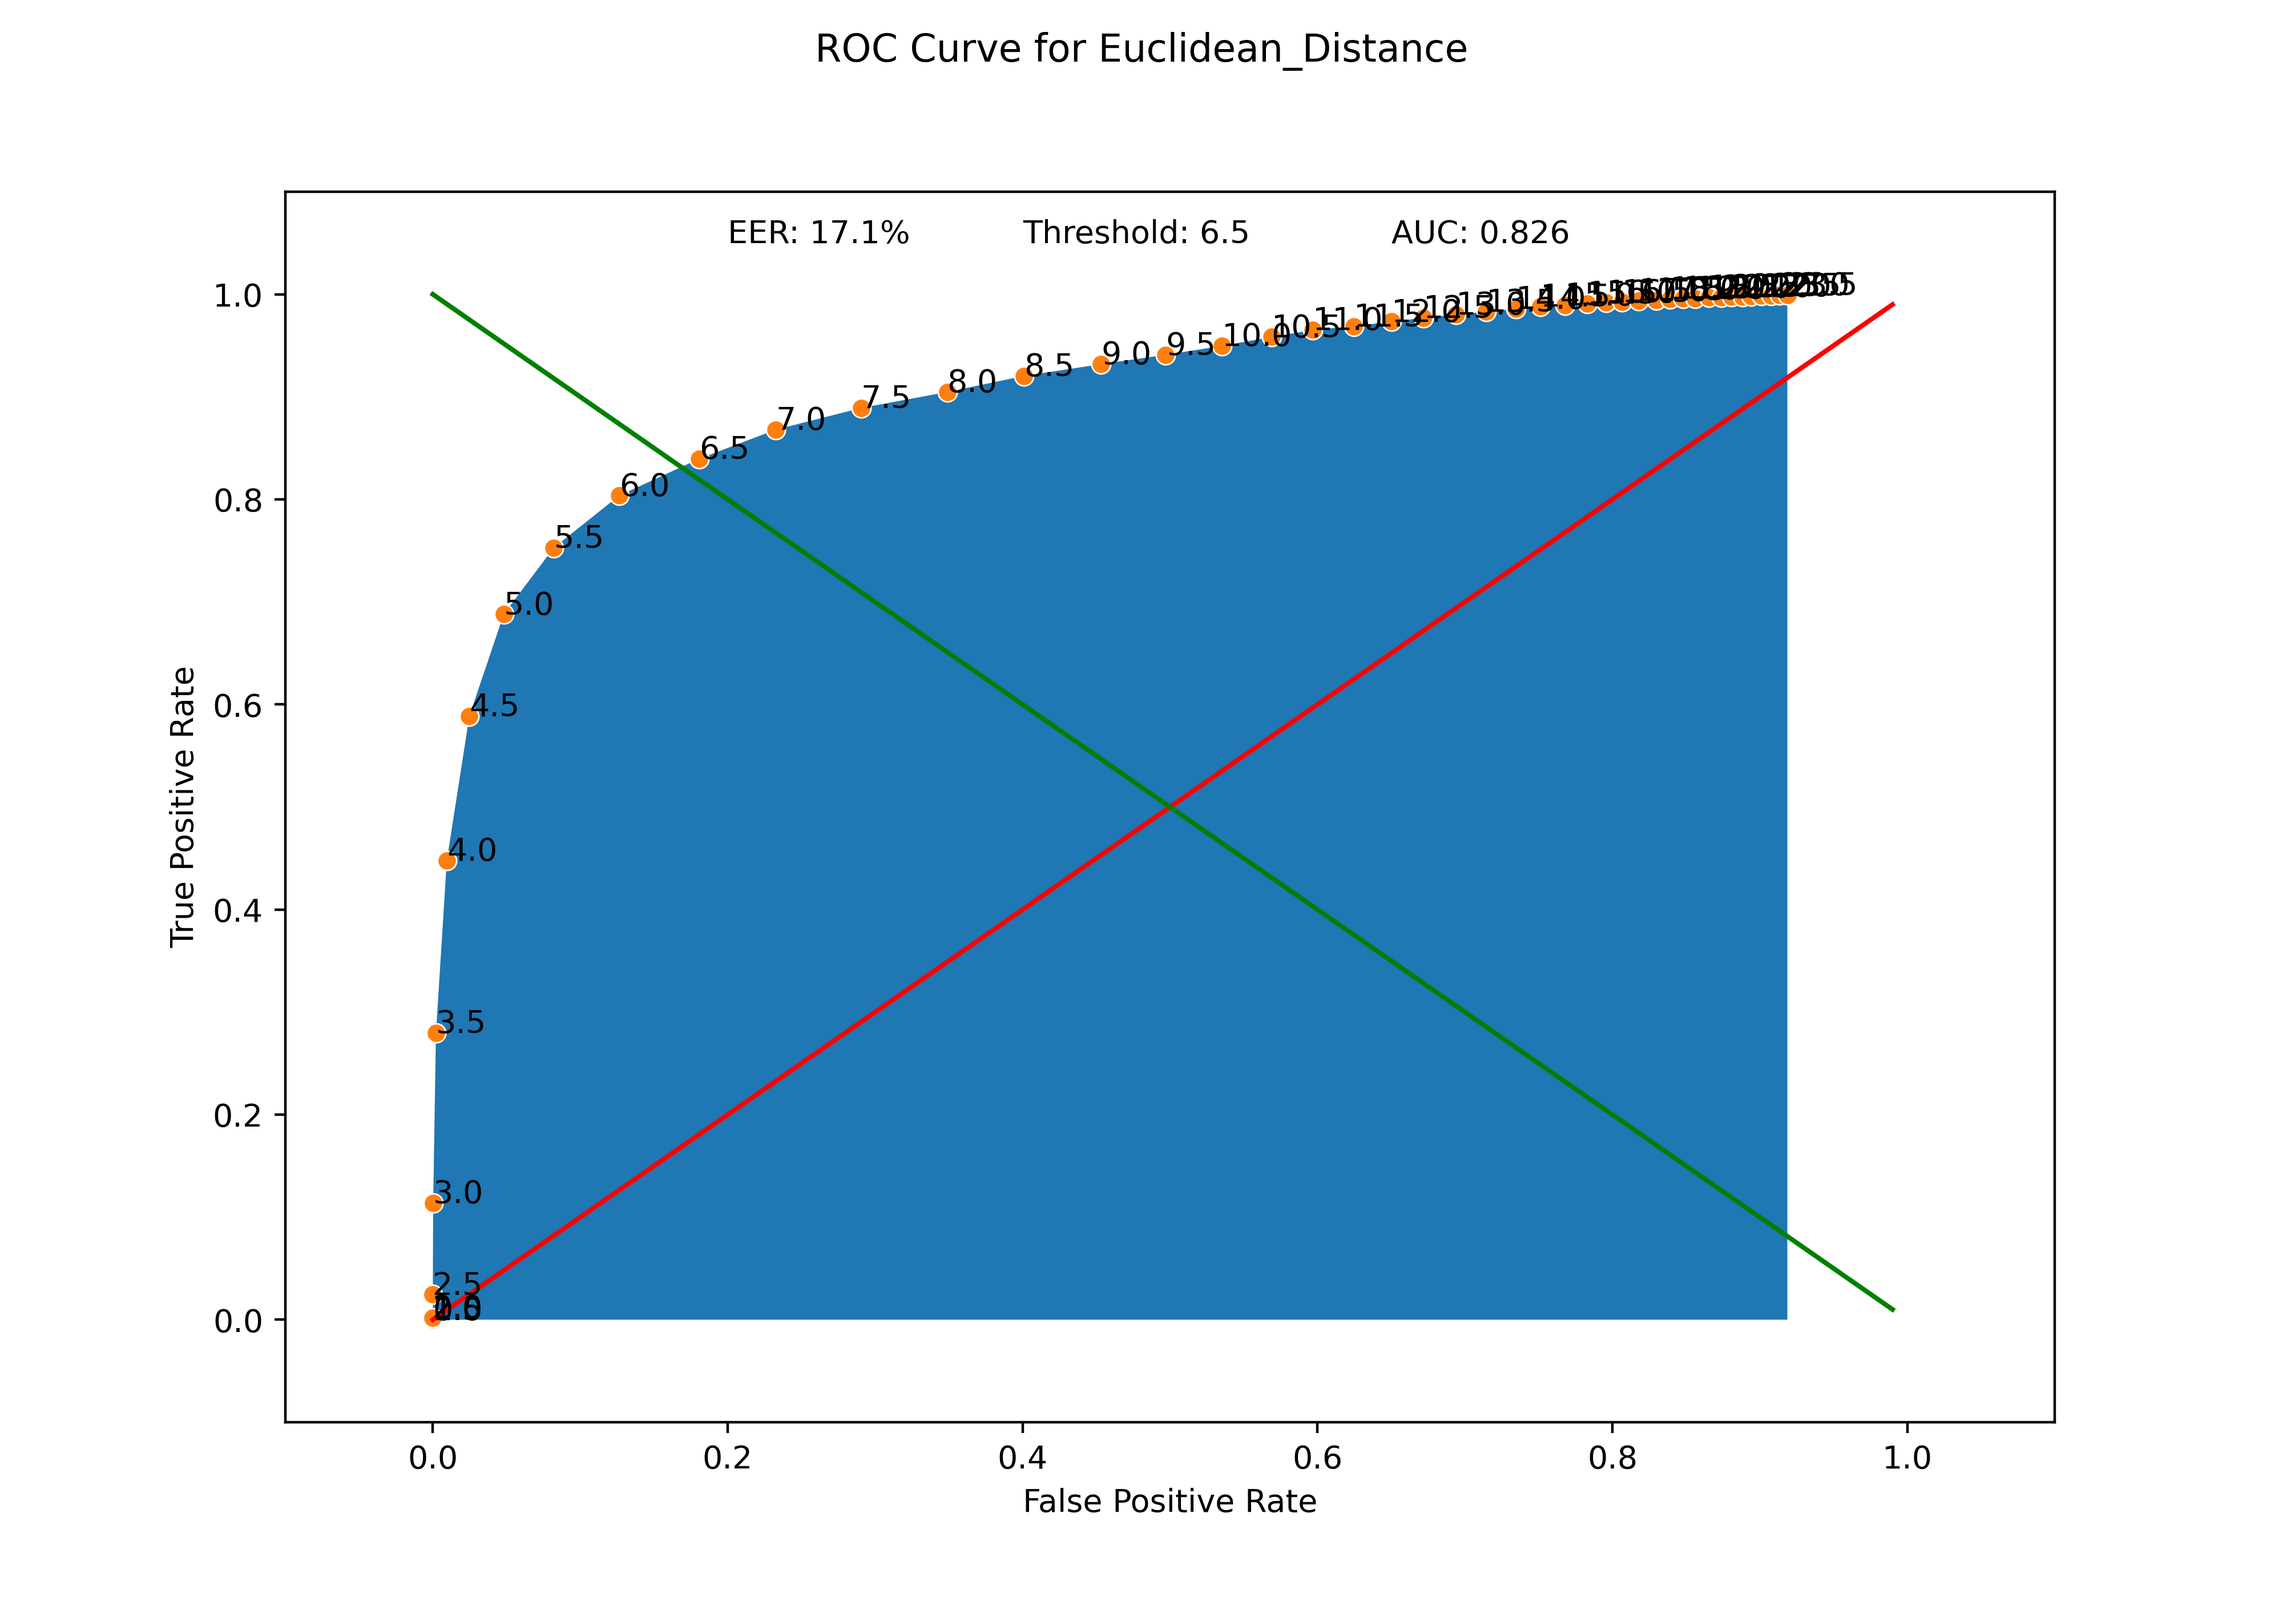
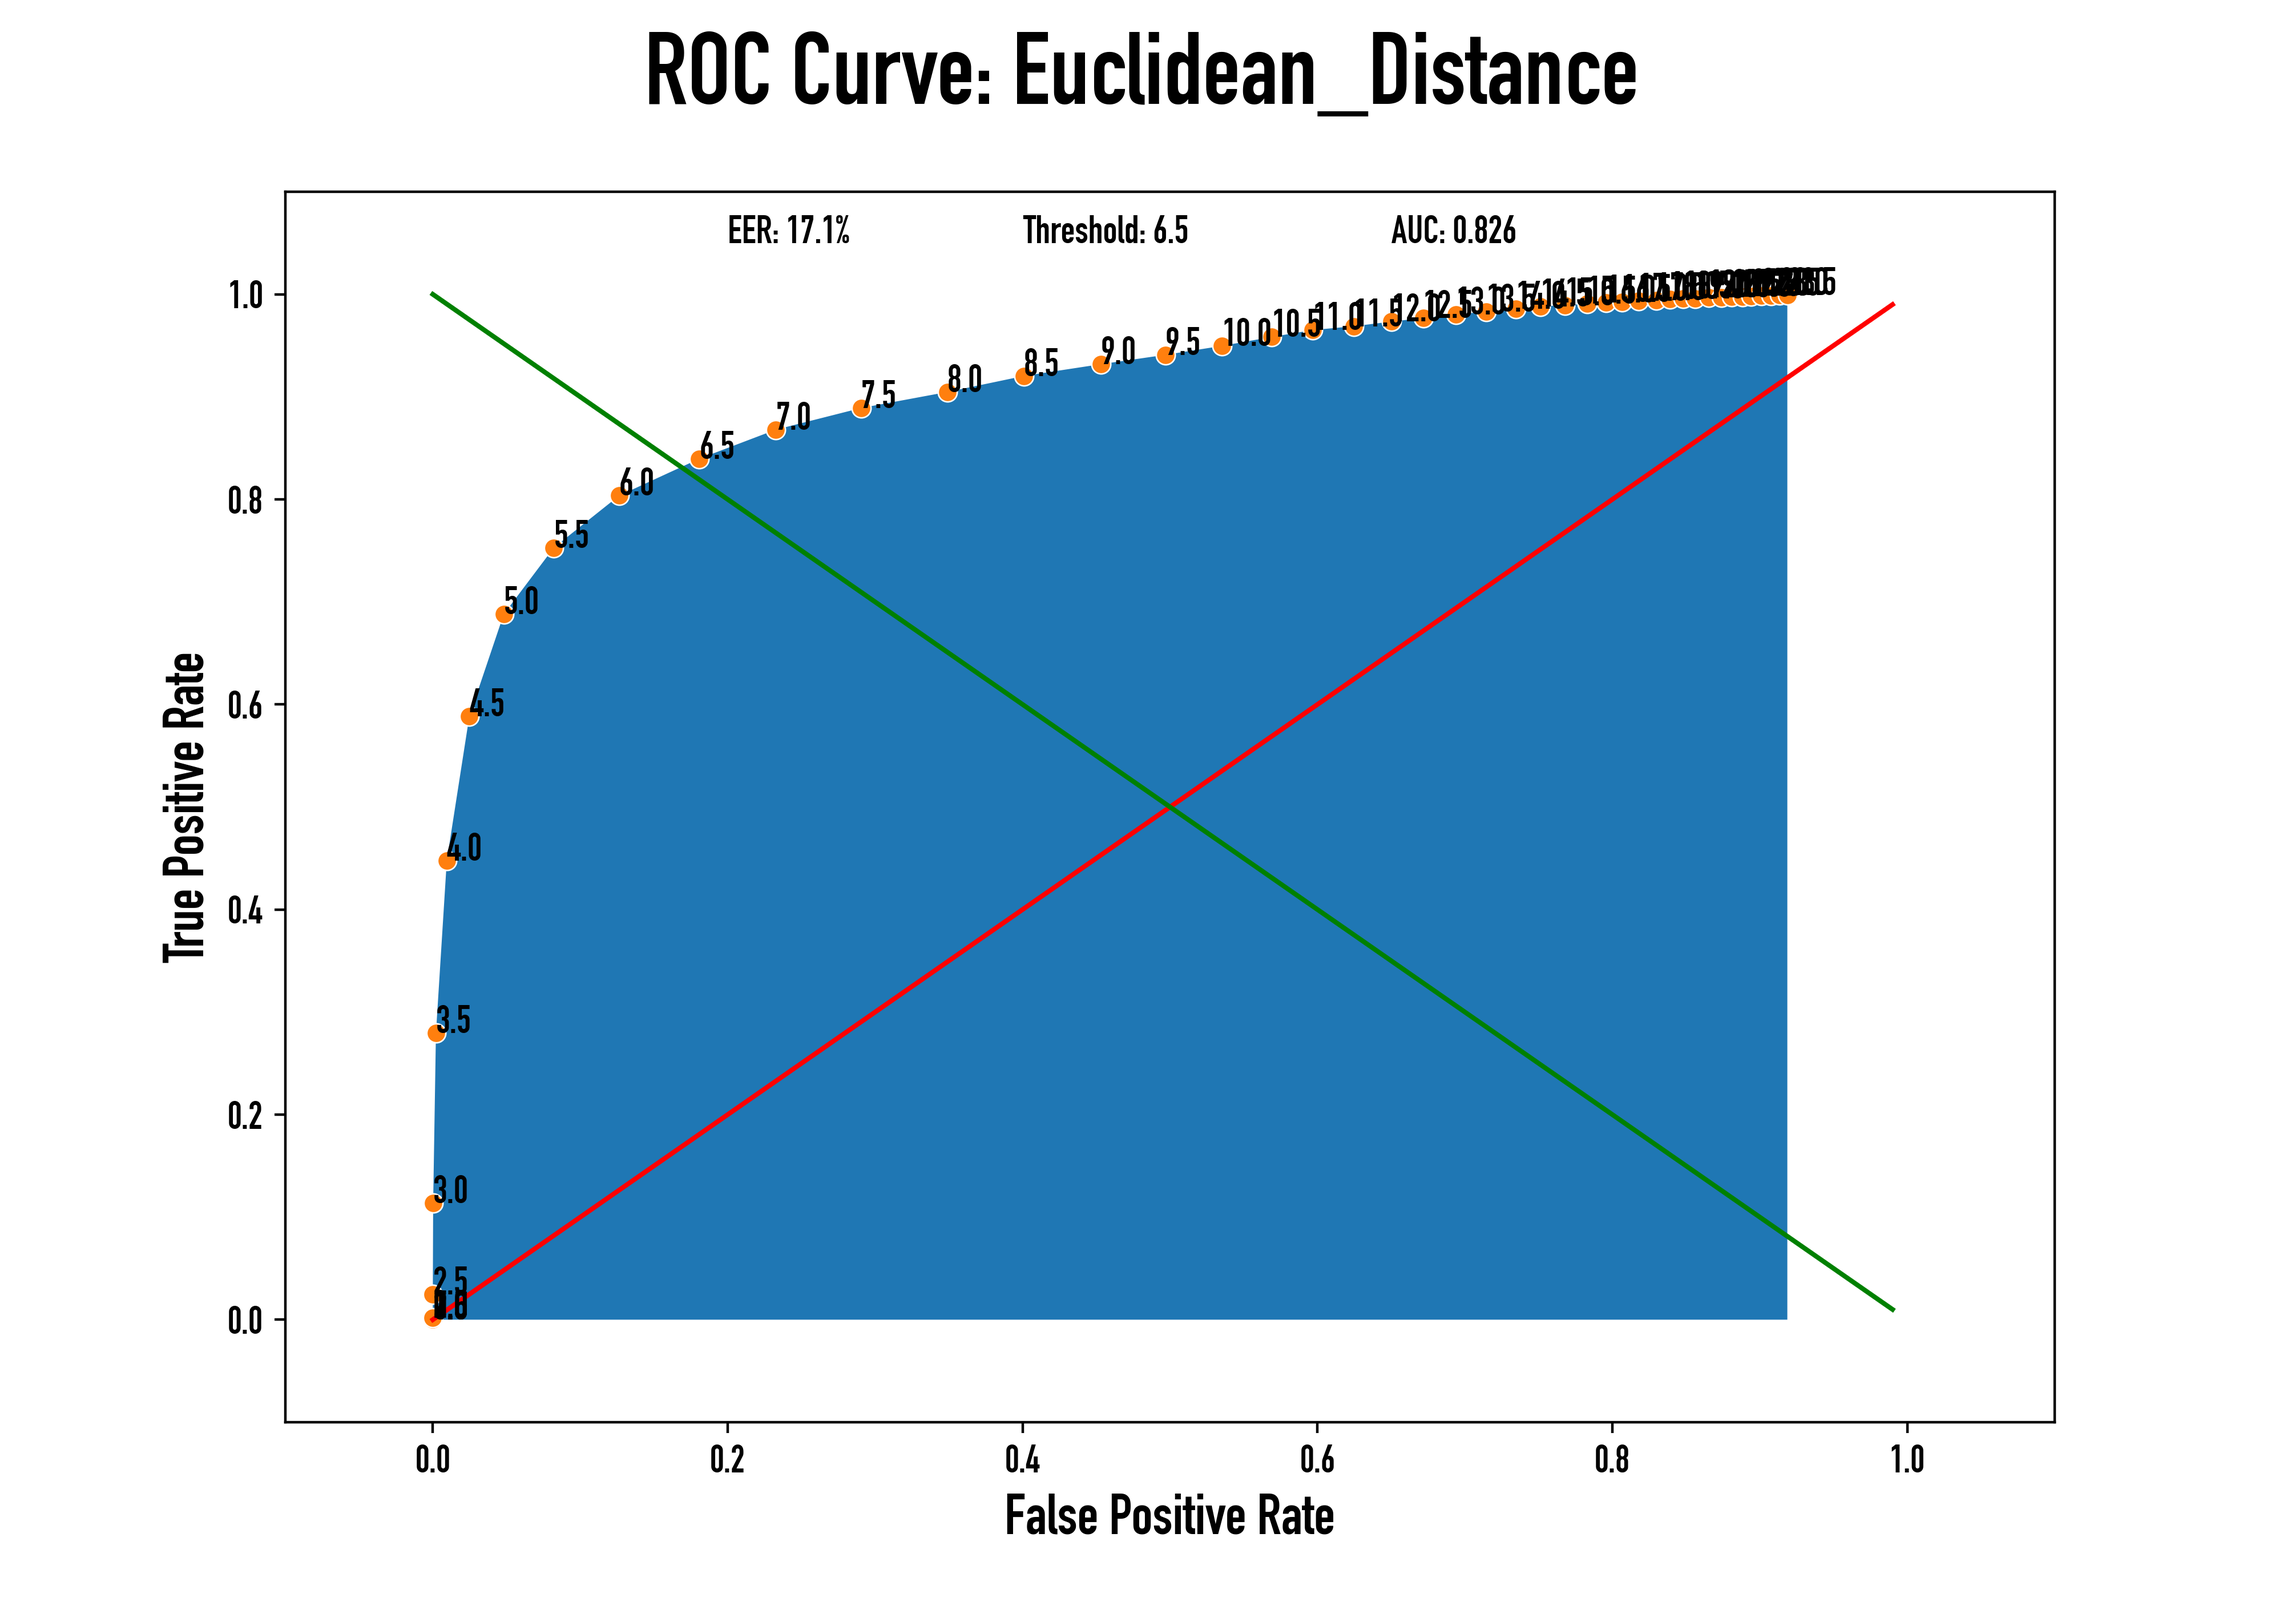
Completed ROC curve gen, works w/ any unithreshold model

diff --git a/keystroke_dynamics/cmu_exploration/cmu_modelling.py b/keystroke_dynamics/cmu_exploration/cmu_modelling.py
@@ -91,7 +91,7 @@ def plot_ROC_curve(tpr, fpr, thresholds, performance, model_name, output_folder)
     xp = [i for i in np.arange(1, 0, -0.01)]
     sns.lineplot(x = vals, y = vals, ax = ax, color = "red")
     sns.lineplot(x = vals, y = xp, ax = ax, color = "green")
-    fig.suptitle(f"ROC Curve for {model_name}")
+    fig.suptitle(f"ROC Curve: {model_name}")
     fig.set_size_inches(10, 7)
     start = .2
     gap = .2
